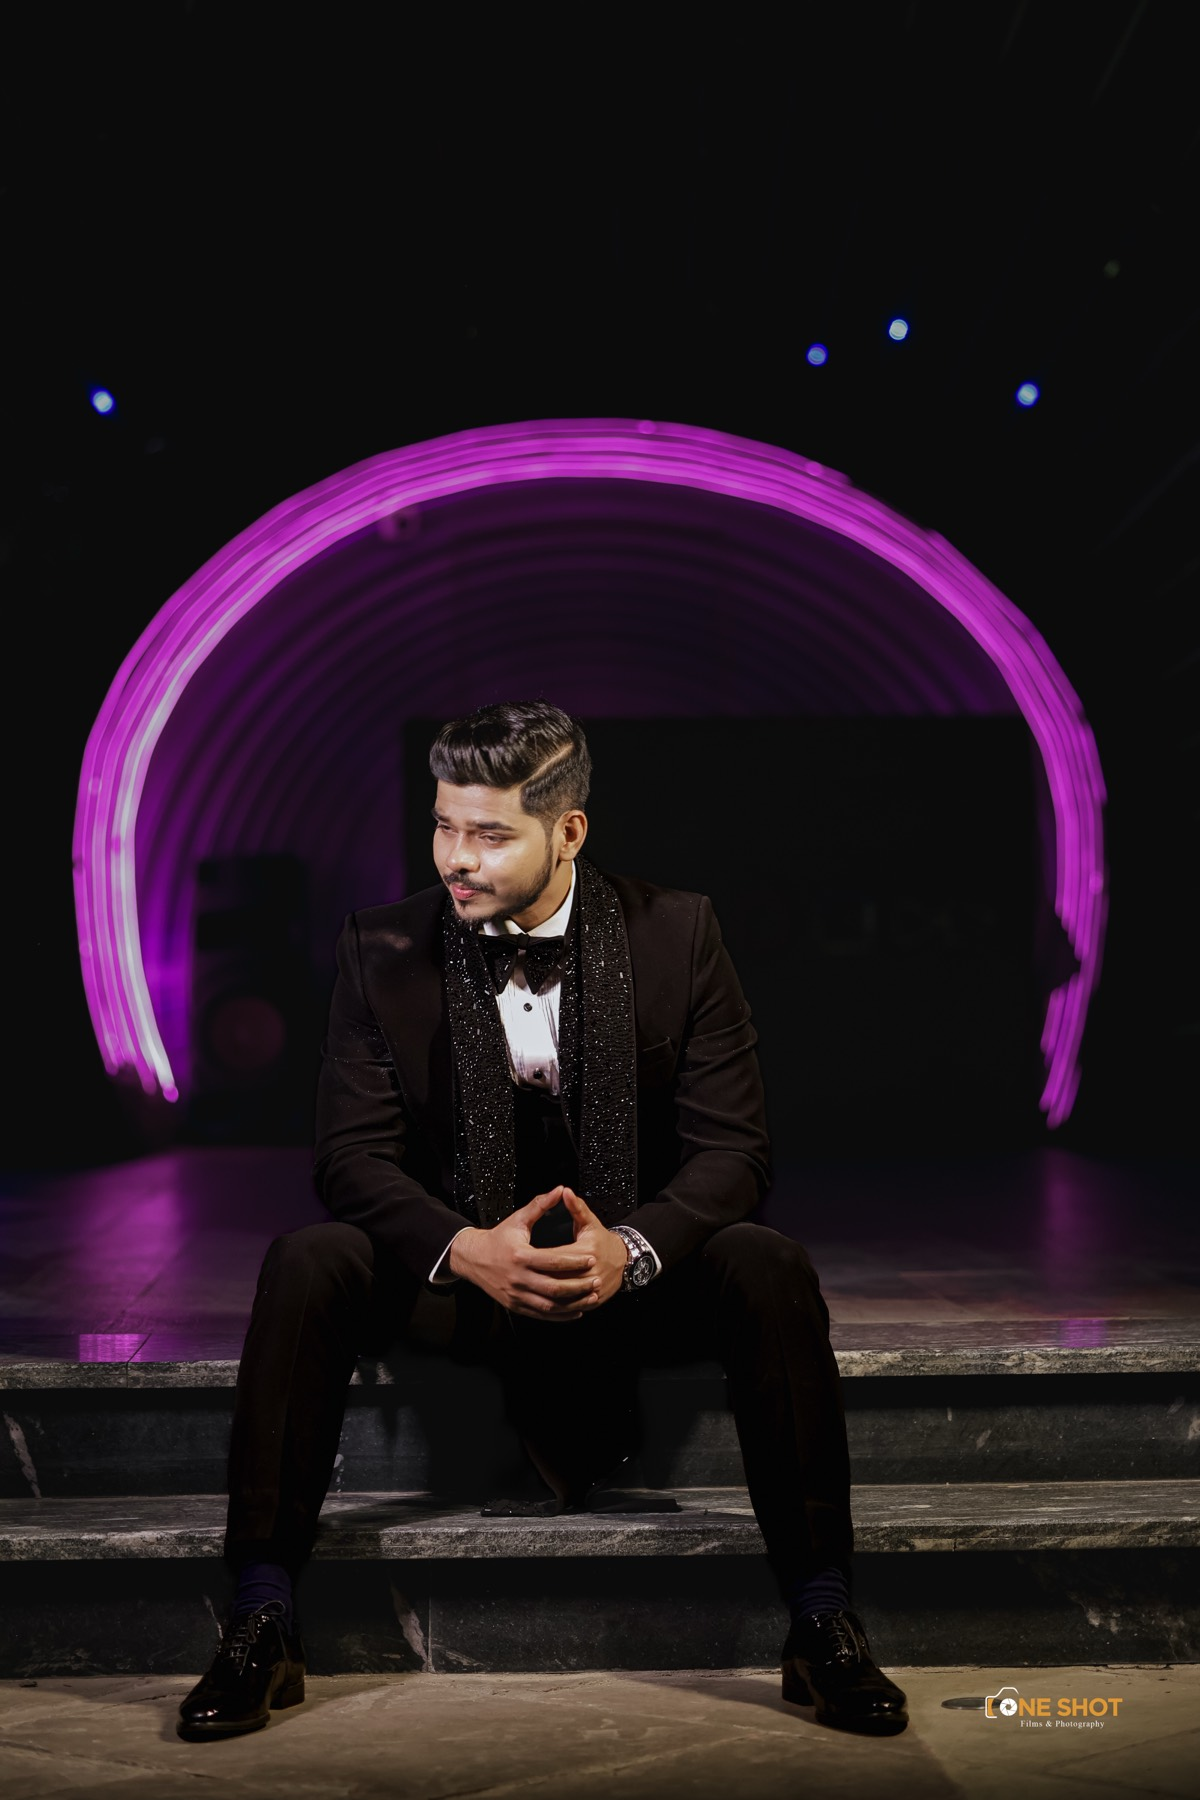
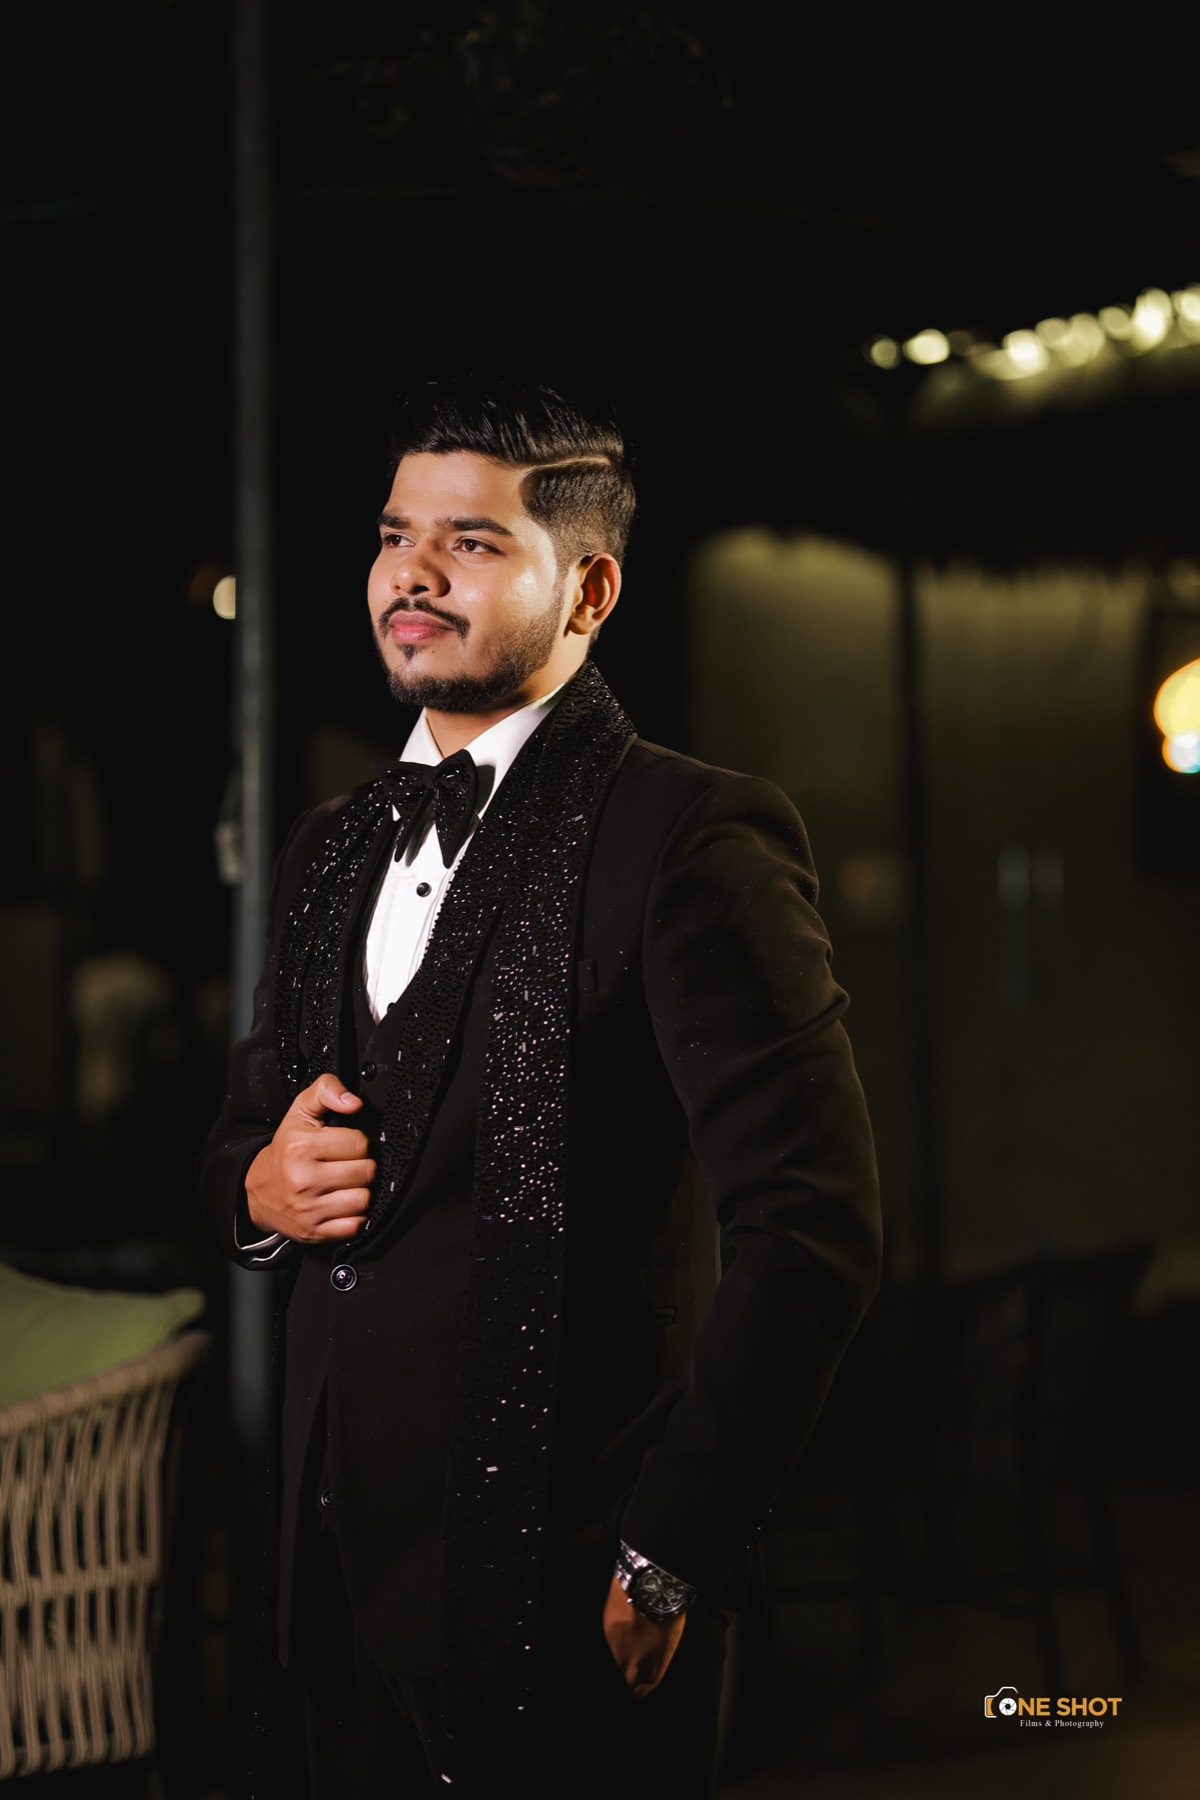
Laptop side-panel photos, distinct photo per page, visible music button

diff --git a/css/style.css b/css/style.css
@@ -10,29 +10,28 @@
 
 * { box-sizing: border-box; margin: 0; padding: 0; }
 
-html, body { min-height: 100%; }
+html { background: #1a080c; }
 
 body {
   font-family: "Cormorant Garamond", "Tiro Devanagari Hindi", Georgia, serif;
   color: var(--cream);
-  background: #1a080c var(--bg-image) center / cover no-repeat fixed;
   min-height: 100vh;
 }
 
 /* Each view has its own photo (body[data-view] is set in js/app.js) */
-body[data-view="home"]     { --bg-image: url("../images/home-wide.jpg"); }
-body[data-view="families"] { --bg-image: url("../images/families.jpg"); }
-body[data-view="groom"]    { --bg-image: url("../images/groom-bg.jpg"); }
-body[data-view="bride"]    { --bg-image: url("../images/bride-bg.jpg"); }
-/* Home: keep faces clear — photo anchored to the top, text at the top, darkest behind the text */
-body[data-view="home"] { background-position: center top; }
-body[data-view="home"]::before {
-  background: linear-gradient(to bottom, rgba(25, 8, 12, 0.8) 0%, rgba(25, 8, 12, 0.45) 45%, rgba(25, 8, 12, 0.1) 100%);
+body[data-view="home"]     { --bg-image: url("../images/home-wide.jpg");  --panel-pos: center; }
+body[data-view="families"] { --bg-image: url("../images/families.jpg");   --panel-pos: center 35%; }
+body[data-view="groom"]    { --bg-image: url("../images/groom-bg.jpg");   --panel-pos: center 30%; }
+body[data-view="bride"]    { --bg-image: url("../images/bride-bg.jpg");   --panel-pos: center 25%; }
+
+/* Full-screen photo behind everything (a fixed layer — works on iPhone, unlike background-attachment: fixed) */
+.backdrop {
+  position: fixed;
+  inset: 0;
+  z-index: -2;
+  background: var(--bg-image) var(--bg-pos, center) / cover no-repeat;
 }
-@media (max-aspect-ratio: 1/1) {
-  body[data-view="home"]   { --bg-image: url("../images/home-tall.jpg"); }
-}
-body { transition: background-image 0.4s ease; }
+.photo-panel { display: none; }
 
 /* Dark overlay so text stays readable over any photo */
 body::before {
@@ -41,6 +40,15 @@ body::before {
   inset: 0;
   background: var(--overlay);
   z-index: -1;
+}
+
+/* Phones / portrait: tall photo for home, faces kept clear below the text */
+@media (max-aspect-ratio: 1/1) {
+  body[data-view="home"] { --bg-image: url("../images/home-tall.jpg"); }
+}
+body[data-view="home"] { --bg-pos: center top; }
+body[data-view="home"]::before {
+  background: linear-gradient(to bottom, rgba(25, 8, 12, 0.8) 0%, rgba(25, 8, 12, 0.45) 45%, rgba(25, 8, 12, 0.1) 100%);
 }
 
 a { color: inherit; text-decoration: none; }
@@ -91,20 +99,25 @@ a { color: inherit; text-decoration: none; }
   position: fixed;
   right: 16px;
   bottom: 16px;
-  width: 48px;
-  height: 48px;
+  width: 54px;
+  height: 54px;
+  display: grid;
+  place-items: center;
   border-radius: 50%;
-  border: 1px solid var(--gold);
-  background: rgba(30, 10, 14, 0.7);
-  color: var(--gold);
-  font-size: 1.4rem;
+  border: 2px solid var(--cream);
+  background: var(--gold);
+  color: #2a0d12;
   cursor: pointer;
   z-index: 10;
-  opacity: 0.6;
+  box-shadow: 0 6px 20px rgba(0, 0, 0, 0.5);
 }
-.music-toggle.playing { opacity: 1; animation: spin 4s linear infinite; }
+.music-toggle svg { width: 26px; height: 26px; }
+.music-toggle.playing { animation: ring 2s ease-out infinite; }
 
-@keyframes spin { to { transform: rotate(360deg); } }
+@keyframes ring {
+  0%   { box-shadow: 0 0 0 0 rgba(232, 198, 122, 0.7), 0 6px 20px rgba(0, 0, 0, 0.5); }
+  100% { box-shadow: 0 0 0 16px rgba(232, 198, 122, 0), 0 6px 20px rgba(0, 0, 0, 0.5); }
+}
 
 /* ===== Landing page ===== */
 #home { position: relative; }
@@ -265,7 +278,7 @@ a { color: inherit; text-decoration: none; }
 }
 
 /* Short, wide screens (small laptops): compact the home text so it clears the couple */
-@media (min-aspect-ratio: 1/1) and (max-height: 680px) {
+@media (max-width: 899px) and (min-aspect-ratio: 1/1) and (max-height: 680px) {
   .landing { padding-top: 32px; }
   .landing .names { font-size: clamp(3rem, 12vh, 8rem); }
   .divider { margin: 10px auto; }
@@ -282,4 +295,25 @@ a { color: inherit; text-decoration: none; }
 
 @media (prefers-reduced-motion: reduce) {
   * { animation: none !important; transition: none !important; }
+}
+
+/* Laptops / wide screens: show the photo uncropped-ish in a side panel,
+   with a soft blurred copy filling the rest */
+@media (min-width: 900px) and (min-aspect-ratio: 1/1) {
+  .backdrop { filter: blur(28px) brightness(0.5); transform: scale(1.12); }
+  .photo-panel {
+    display: block;
+    position: fixed;
+    top: 0;
+    bottom: 0;
+    left: 0;
+    width: 42vw;
+    background: var(--bg-image) var(--panel-pos) / cover no-repeat;
+    border-right: 1px solid rgba(232, 198, 122, 0.45);
+    box-shadow: 10px 0 40px rgba(0, 0, 0, 0.5);
+  }
+  .view { margin-left: 42vw; }
+  body[data-view="home"]::before { background: rgba(25, 8, 12, 0.35); }
+  .landing { justify-content: center; padding: 24px 32px; }
+  .landing .names { font-size: clamp(3rem, min(7vw, 15vh), 7rem); }
 }

diff --git a/js/app.js b/js/app.js
@@ -142,13 +142,20 @@ window.addEventListener("hashchange", show);
 const song = document.getElementById("song");
 const toggle = document.getElementById("music-toggle");
 
+const ICON_ON = '<svg viewBox="0 0 24 24" fill="currentColor" aria-hidden="true"><path d="M3 9v6h4l5 5V4L7 9H3z"/><path d="M14.5 8.5a5 5 0 0 1 0 7M17 6a8.5 8.5 0 0 1 0 12" fill="none" stroke="currentColor" stroke-width="2" stroke-linecap="round"/></svg>';
+const ICON_OFF = '<svg viewBox="0 0 24 24" fill="currentColor" aria-hidden="true"><path d="M3 9v6h4l5 5V4L7 9H3z"/><path d="M16 9l6 6M22 9l-6 6" fill="none" stroke="currentColor" stroke-width="2" stroke-linecap="round"/></svg>';
+
 function syncToggle() {
+  toggle.innerHTML = song.paused ? ICON_OFF : ICON_ON;
   toggle.classList.toggle("playing", !song.paused);
   toggle.setAttribute("aria-label", song.paused ? "Play music" : "Pause music");
 }
 function playSong() { song.play().catch(() => {}); }
 
-song.addEventListener("canplay", () => { toggle.hidden = false; }, { once: true });
+// Show the button once the song is usable (it may already be loaded before this script runs)
+function showToggle() { toggle.hidden = false; syncToggle(); }
+if (song.readyState >= 2) showToggle();
+["loadeddata", "canplay", "play"].forEach((e) => song.addEventListener(e, showToggle));
 song.addEventListener("play", syncToggle);
 song.addEventListener("pause", syncToggle);
 toggle.addEventListener("click", () => (song.paused ? playSong() : song.pause()));
@@ -175,7 +182,7 @@ show();
 
 // Warm up the other views' photos so switching is instant
 window.addEventListener("load", () => {
-  ["families", "groom-bg", "bride-bg", "groom-card", "bride-card"].forEach((n) => {
+  ["families", "groom-bg", "bride-bg", "home-tall", "home-wide", "groom-card", "bride-card"].forEach((n) => {
     new Image().src = `images/${n}.jpg`;
   });
 });

diff --git a/index.html b/index.html
@@ -11,9 +11,11 @@
   <link rel="stylesheet" href="css/style.css">
 </head>
 <body data-view="home">
+  <div class="backdrop"></div>
+  <div class="photo-panel"></div>
   <!-- Background song: put your file at audio/song.mp3 -->
   <audio id="song" src="audio/song.mp3" loop preload="auto"></audio>
-  <button id="music-toggle" class="music-toggle" type="button" hidden aria-label="Play music">♪</button>
+  <button id="music-toggle" class="music-toggle" type="button" hidden aria-label="Play music"></button>
 
   <!-- Home -->
   <section id="home" class="view">
@@ -38,7 +40,7 @@
       <p class="subtitle" data-t="chooseFamily"></p>
       <div class="choices">
         <a class="choice" href="#groom">
-          <img class="choice-photo" src="images/groom-card.jpg" alt="Ayush">
+          <img class="choice-photo" src="images/groom-card.jpg" alt="Ayush" style="object-position: 50% 45%">
           <div class="label script" data-t="groomSide"></div>
           <div class="who" data-t="groomFamily"></div>
         </a>
